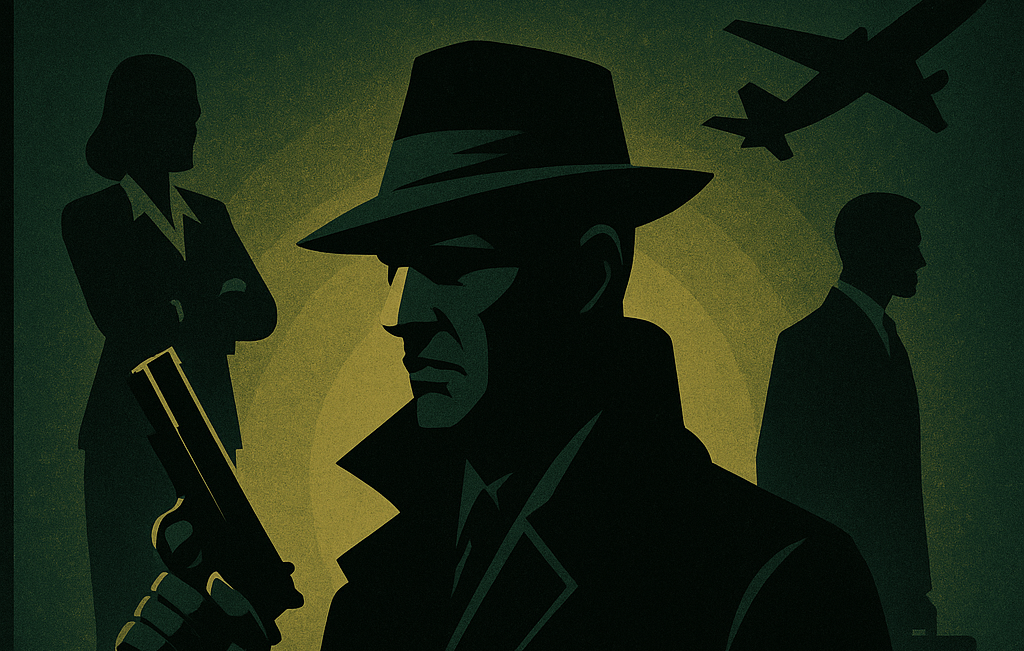
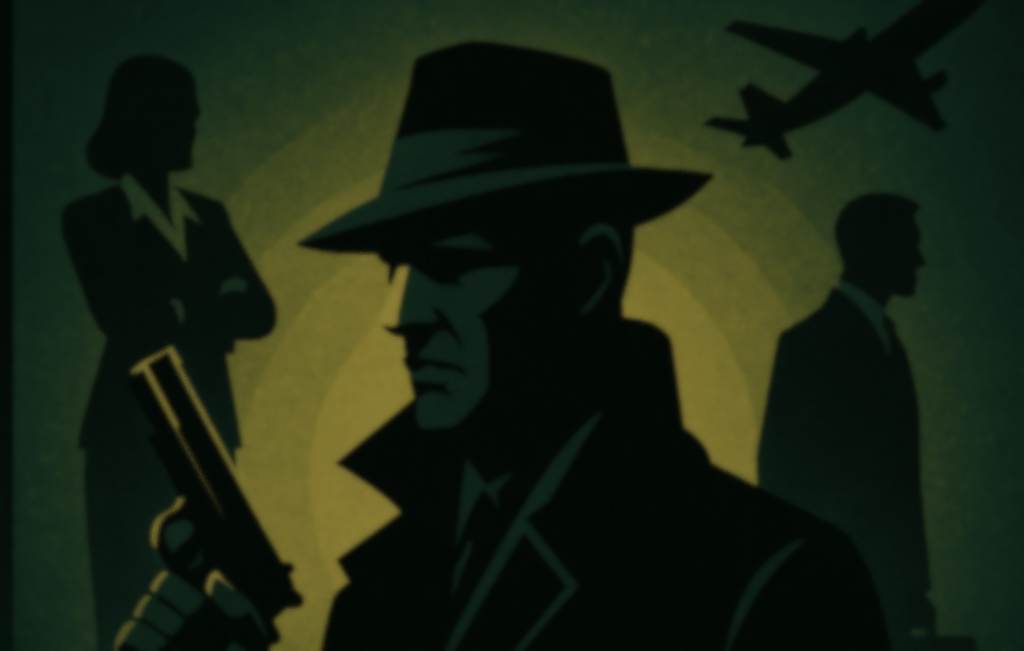
modificacion index + historia un poco

diff --git a/style.css b/style.css
@@ -277,7 +277,7 @@ a:hover {
   background: #f5f5f5; 
 }
 .hero{
-  background-image: url(./Assets/Main\ imagen.png);  
+  background-image: url(Assets/Main\ imagen2.png);  
   background-size: cover;   
   background-position: center;   
 }
@@ -288,8 +288,9 @@ a:hover {
   align-items: center; 
   justify-content: center; 
 }
-.hero-text { max-width: 600px; }
-.hero-text h2 { font-size: 2.8rem; margin-bottom: 1rem; color:rgb(149, 255, 0); text-shadow: 2px 2px 4px rgba(0, 0, 0, 0.6);}
+.hero-text {display: flex; flex-direction: column; justify-content: center; max-width: 600px; ; 
+  text-align: center; }
+.hero-text h2 { font-size: 2.5rem; margin-bottom: 1rem; color:rgb(255, 255, 255); text-shadow: 2px 2px 4px rgba(255, 255, 255, 0.6);}
 .hero-text p { font-size: 1.2rem; margin-bottom: 2rem; color: rgb(254, 254, 254); text-shadow: 2px 2px 4px rgba(0, 0, 0, 0.6); }
 .hero-image img { width: 100%; max-width: 190px; border-radius: 12px; box-shadow: 2px 2px 4px rgba(0, 0, 0, 0.6);}
 
@@ -316,6 +317,7 @@ a:hover {
 /*------------------------------------------------------------------------*/
 /*                            Ver instrucciones                           */
 /*------------------------------------------------------------------------*/
+.separacion1{background:black ; height: 20px}
 .btn { 
   display: inline-block; 
   padding: 1rem 2rem; 
@@ -330,10 +332,25 @@ a:hover {
   background: #d32f2f; 
 }
 
-/* How-to Steps */
+/* How-to Steps */  
 .how-to { 
-  background: #ffffff; 
-  padding: 4rem 0; 
+  background-image: url(Assets/mesa_fondo.png);
+    background-size: cover;       
+    background-position: center;   
+    background-repeat: no-repeat; 
+    padding: 4rem 0; 
+}
+
+.how-to h2{
+  color: white;
+  text-shadow: 0 0 8px rgba(255, 255, 255, 0.5);
+  letter-spacing: 5px; 
+}
+
+
+.how-to p{
+  color: white;
+  
 }
 .steps { 
   display: grid; 
@@ -345,7 +362,7 @@ a:hover {
   display: inline-block; 
   width: 50px; height: 50px; 
   background: #e53935; 
-  color: rgb(189, 252, 0); 
+  color: rgb(255, 255, 255); 
   font-weight: bold; 
   font-size: 1.4rem; 
   line-height: 50px; 
@@ -357,11 +374,36 @@ a:hover {
 .step:hover .number { 
   transform: scale(1.1); 
 }
+.separacion2{
+  background: black;
+  height: 20px;
+}
 
 /* Features */
 .features { 
-  background: #f5f5f5;
+   background-image: url("Assets/fondo_aventura_joc.png");
+    background-size: cover;       
+    background-position: center;   
+    background-repeat: no-repeat; 
+ 
   padding: 4rem 0; }
+
+  .features h2{
+    color: white;
+  text-shadow: 0 0 8px rgba(255, 255, 255, 0.5);
+  letter-spacing: 5px; 
+}
+ .features p{
+    color: white;
+ 
+ }
+ 
+  .features h3{
+    color: white;
+    letter-spacing: 3px;
+  
+}
+  
 .grid { 
   display: grid;
   grid-template-columns: repeat(auto-fit, minmax(260px, 1fr)); 
@@ -372,12 +414,13 @@ a:hover {
   padding: 2rem; 
   border-radius: 12px; 
   text-align: center; 
-  box-shadow: 0 4px 15px rgba(249, 15, 15, 0.893); 
+  box-shadow: 0 1px 8px rgba(0, 0, 0, 0.893); 
   transition: transform var(--transition), box-shadow var(--transition); 
+  
 }
 .card:hover { 
   transform: translateY(-5px); 
-  box-shadow: 0 8px 20px rgb(233, 225, 4); 
+  box-shadow: 0 1px 20px rgb(255, 255, 255); 
 }
 
 /*------------------------------------------------------------------------*/
@@ -503,14 +546,13 @@ a:hover {
 /* === DOTS === */
 .dots {
     position: absolute;
-    bottom: 30px;
+    bottom: 0;
     left: 0;
     width: 100%;             
     z-index: 20;
-
     display: flex;
     justify-content: center;  
-        gap: 12px;
+    gap: 12px;
 }
 
 

diff --git a/index.html b/index.html
@@ -66,12 +66,13 @@
     </div>
   </section>
 
+<section class="separacion1"></section>
   <!--------------------------------------------------------->
   <!--                  Secció Com es juga                 -->
   <!--------------------------------------------------------->
   <section class="how-to">
     <div class="container">
-      <h2>Com es juga?</h2>
+      <h2>¿Com es juga?</h2>
       <div class="steps">
         <div class="step">
           <span class="number">1</span>
@@ -97,6 +98,7 @@
       </div>
     </div>
   </section>
+  <section class="separacion2"></section>
 
   <!--------------------------------------------------------->
   <!--              Característiques del joc               -->
@@ -119,12 +121,12 @@
           </article>
         </div>
       </div>
-  </section>
+      <br><br><br><br><br><br><br>
 
   <!--------------------------------------------------------->
   <!--          Com es veu el joc (5 imatges reals)        -->
   <!--------------------------------------------------------->
-  <section class="features" aria-labelledby="visual-title">
+  
     <div class="container">
       <h2 id="visual-title">Com es veu el joc</h2>
       <div class="grid">
@@ -149,7 +151,7 @@
 
 
   <!--------------------------------------------------------->
-  <!--                       Header                        -->
+  <!--                       footer                        -->
   <!--------------------------------------------------------->
   <footer class="footer" aria-label="Peu de pàgina">
     <div class="container footer-container">

diff --git a/historia.html b/historia.html
@@ -19,7 +19,7 @@
 
   <!-- Header -->
   <header class="header">
-    <div class="container header__inner">
+    <div class="container header__inner">   
       
       <!-- Logo + Título (todo junto y alineado) -->
       <a href="index.html" class="brand">
@@ -109,7 +109,7 @@
     </div>
 
 </section>
-
+<section class="separacion1"></section>
 <section class="historia_real">
 <div class="contenedor_historia_real">
 
@@ -138,3 +138,13 @@
 
 </section>
 
+ <footer class="footer" aria-label="Peu de pàgina">
+    <div class="container footer-container">
+      <p>&copy; 2025 Código Secreto. Tots els drets reservats.</p>
+      <div class="social" aria-label="Xarxes socials">
+        <a href="#" aria-label="Twitter">T</a>
+        <a href="#" aria-label="Instagram">I</a>
+        <a href="#" aria-label="Facebook">F</a>
+      </div>
+    </div>
+  </footer>
